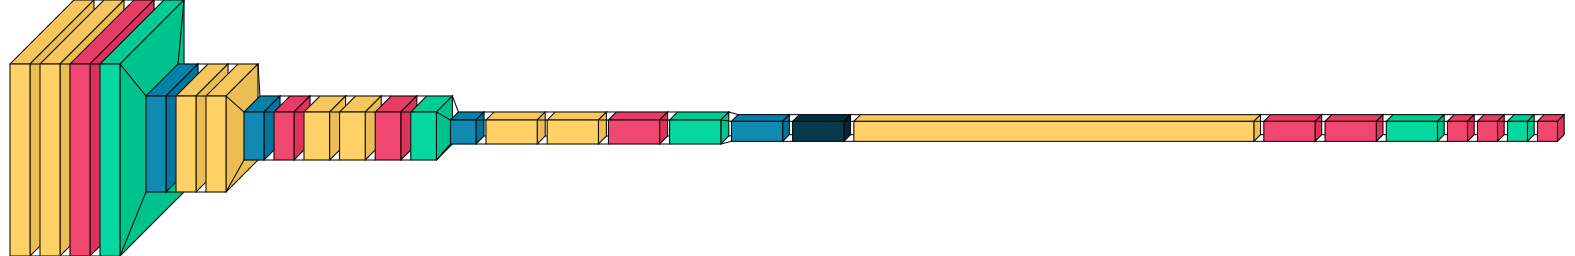
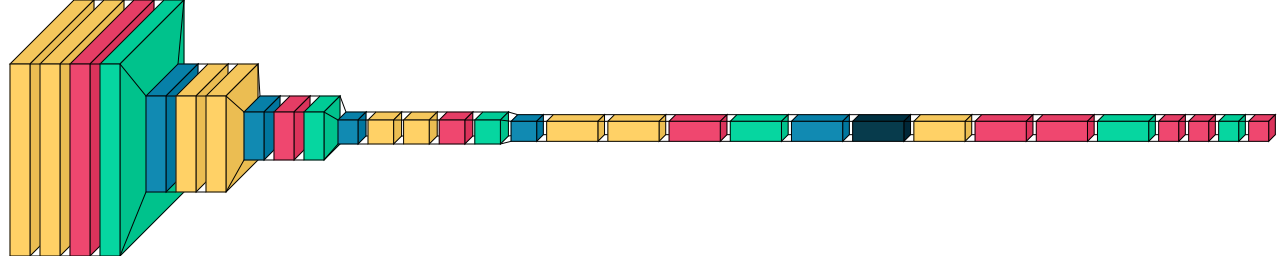
update

Changed region(s): [[0.0, 0.0, 0.7154, 1.0], [0.7465, 0.4375, 0.9953, 0.5625]]

diff --git a/model/main.py b/model/main.py
@@ -9,11 +9,12 @@ import sys
 sys.path.append('../data')
 from preprocess import get_data
 
-_DEFAULT_TRAIN_FILEPATH = ['../data/train_data_1.gz',
-                           '../data/train_data_2.gz', '../data/train_data_3.gz', '../data/train_data_4.gz']
-_DEFAULT_TEST_FILEPATH = '../data/test_data.gz'
-_DEFAULT_VALIDATION_FILEPATH = '../data/validation_data.gz'
+_DEFAULT_TRAIN_FILEPATH = ['train_data_1.gz',
+                           'train_data_2.gz', 'train_data_3.gz', 'train_data_4.gz']
+_DEFAULT_TEST_FILEPATH = 'test_data.gz'
+_DEFAULT_VALIDATION_FILEPATH = 'validation_data.gz'
 EMOTIONS = ['Angry', 'Digust', 'Fear', 'Happy', 'Sad', 'Surprise', 'Neutral']
+EMOTIONS = ['Happy', 'Neutral', 'Sad', 'Surprise']
 
 def viz_training_results(history, epochs=50):
     acc = history.history['accuracy']
@@ -85,24 +86,15 @@ def main():
     viz_model_summary(model=model)
     viz_model(model=model)
 
-<<<<<<< Updated upstream
-    model, history = trainModel(model=model, x_train=x_train, y_train=y_train, x_val=x_val, y_val=y_val, epochs=35)
-    viz_training_results(history=history, epochs=35)
-=======
     model, history = trainModel(model=model, x_train=x_train, y_train=y_train, x_val=x_val, y_val=y_val, epochs=50)
     viz_training_results(history=history, epochs=50)
->>>>>>> Stashed changes
 
     y_pred, y_true = testModel(model=model, x_test=x_test, y_test=y_test)
     test_acc = accuracy_score(y_true, y_pred)
     print('Model Test Accuracy: ', test_acc)
     viz_test_confusion_matrix(y_pred=y_pred, y_true=y_true, labels=EMOTIONS)
 
-<<<<<<< Updated upstream
-    saveModel(model=model)
-=======
     saveModel(model=model, file_name='cnn-newarc-3emots-2.h5')
->>>>>>> Stashed changes
 
 if __name__ == "__main__":
     main()

diff --git a/model/preprocess.py b/model/preprocess.py
@@ -8,8 +8,8 @@ test_filepath = 'test_data.gz'
 validation_path = 'validation_data.gz'
 image_hw = 48
 EMOTION_CLASSIFICATION = {0: 'Angry', 1: 'Digust', 2: 'Fear', 3: 'Happy', 4: 'Sad', 5: 'Surprise', 6: 'Neutral'}
-CONVERSION_DICT = {3: 0, 4: 1, 6: 2}
-EMOTION_CLASSIFICATION_REDUCED = {0: 'Happy', 1: 'Sad', 2: 'Neutral'}
+CONVERSION_DICT = {3: 0, 4: 1, 6: 2, 5: 3}
+EMOTION_CLASSIFICATION_REDUCED = {0: 'Happy', 1: 'Neutral', 2: 'Sad', 3: 'Surprise'}
 
 
 def _split_data(df: pd.DataFrame):
@@ -34,10 +34,10 @@ def get_data(train_data_file_paths: list = train_filepath,
     val_data = pd.read_csv(val_data_file_path, compression='gzip')
     
     
-    train_data = train_data[train_data['emotion'].isin([3, 4, 6])]
+    train_data = train_data[train_data['emotion'].isin([3, 4, 6, 5])]
     train_data['emotion'] = train_data['emotion'].replace(CONVERSION_DICT)
 
-    val_data = val_data[val_data['emotion'].isin([3, 4, 6])]
+    val_data = val_data[val_data['emotion'].isin([3, 4, 6, 5])]
     val_data['emotion'] = val_data['emotion'].replace(CONVERSION_DICT)
 
     
@@ -47,7 +47,7 @@ def get_data(train_data_file_paths: list = train_filepath,
     #test data
     test_data = pd.read_csv(test_data_file_path, compression='gzip')
 
-    test_data = test_data[test_data['emotion'].isin([3, 4, 6])]
+    test_data = test_data[test_data['emotion'].isin([3, 4, 6, 5])]
     test_data['emotion'] = test_data['emotion'].replace(CONVERSION_DICT)
 
     x_test, y_test = _split_data(test_data)

diff --git a/model/cnn.py b/model/cnn.py
@@ -11,9 +11,10 @@ from tensorboard_utils import \
 IMG_DIM = 48
 EMOTION_CLASSIFICATION = {0: 'Angry', 1: 'Digust', 2: 'Fear',
                           3: 'Happy', 4: 'Sad', 5: 'Surprise', 6: 'Neutral'}
+EMOTION_CLASSIFICATION= {0: 'Happy', 1: 'Neutral', 2: 'Sad', 3: 'Surprise'}
 
 
-def generateModel(num_emotion=7):
+def generateModel(num_emotion=4):
     return Sequential(
         [
             layers.InputLayer(input_shape=(IMG_DIM, IMG_DIM, 1)),
@@ -76,16 +77,13 @@ def trainModel(model, x_train, y_train, x_val, y_val, epochs=35, batch_size=64):
     # Keras callbacks for training
     callback_list = [
         tf.keras.callbacks.TensorBoard(
-            log_dir=logs_path,
+            log_dir='logs',
             update_freq='batch',
             profile_batch=0),
-        ImageLabelingLogger(logs_path, datasets),
-        CustomModelSaver(checkpoint_path, ARGS.task, hp.max_num_weights)
+        CustomModelSaver('checkpoints', 1, 3)
     ]
 
-    # Include confusion logger in callbacks if flag set
-    if ARGS.confusion:
-        callback_list.append(ConfusionMatrixLogger(logs_path, datasets))
+    
 
     history = model.fit_generator(
         data_augmentation_gen.flow(x_train, y_train, batch_size),

diff --git a/model/tensorboard_utils.py b/model/tensorboard_utils.py
@@ -11,7 +11,7 @@ import sklearn.metrics
 import numpy as np
 import tensorflow as tf
 from matplotlib import pyplot as plt
-import hyperparameters as hp
+
 
 
 def plot_to_image(figure):
